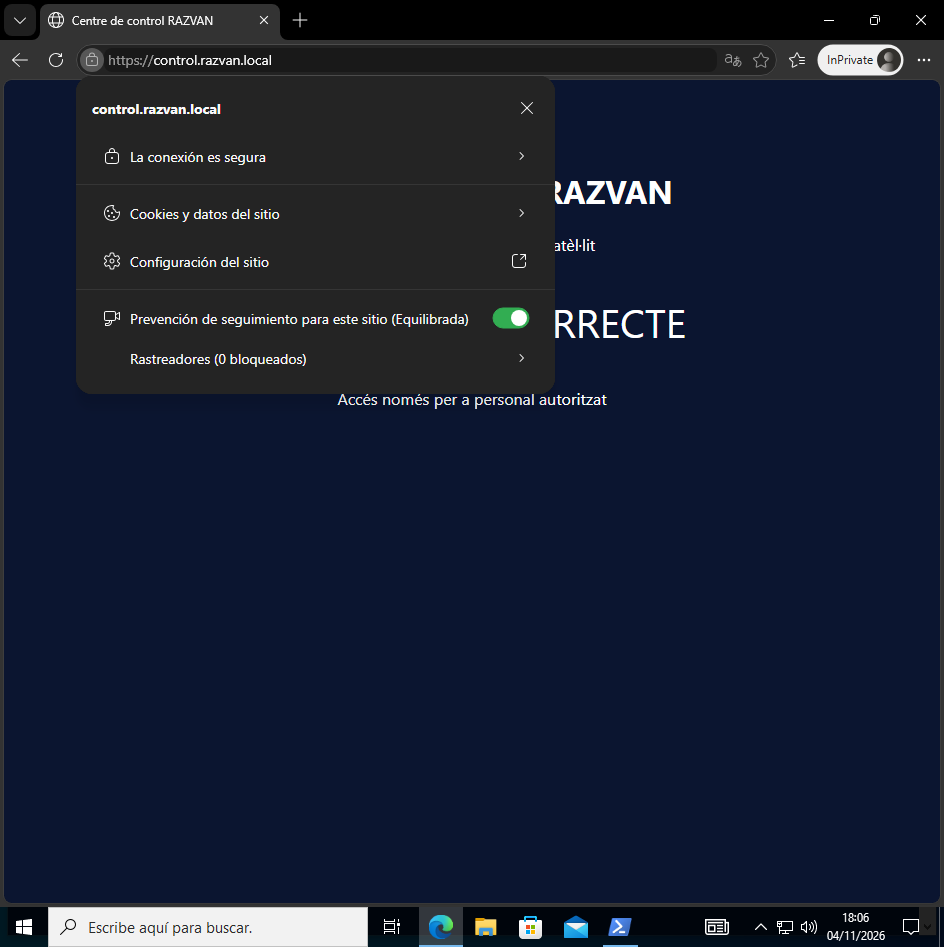
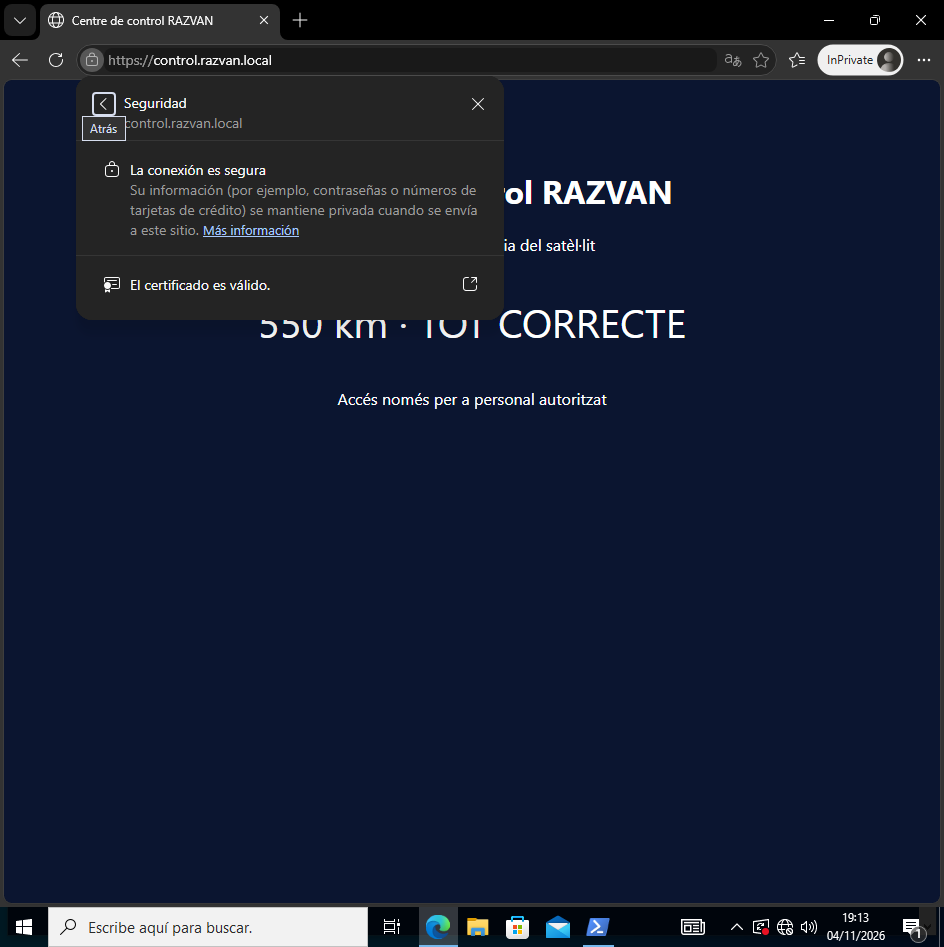
Completa l'activitat AD CS: reptes 0, 4 i 5 i visor d'Edge
Afegeix les captures de l'Administrador de DNS (zona i reenviadors),
les pestanyes de la plantilla WebServer-SAN, el SAN del certificat
emès a certsrv, el visor de certificats d'Edge amb la jerarquia i
l'error de dc01.razvan.local.

diff --git a/tasca-ad.html b/tasca-ad.html
@@ -202,7 +202,9 @@ nslookup dc01.razvan.local
 nslookup www.google.com
 </code></pre>
 <img width="800" alt="captura1" src="../contingut/centralitzaci%C3%B3%20d%27usuaris%20amb%20un%20AD/img/captura1.png" /><p>L&#39;usuari és <code>razvan\administrador</code>. El primer <code>nslookup</code> troba el controlador de domini a <code>192.168.56.18</code>, i el segon resol <code>www.google.com</code>, així que els reenviadors funcionen.</p>
-<hr>
+<p>Al servidor obrim l&#39;<strong>Administrador de DNS</strong> (<code>dnsmgmt.msc</code>) i anem a <strong>DC01 › Zonas de búsqueda directa › razvan.local</strong>. A la zona hi ha el registre <code>dc01</code> (i, més endavant, <code>control</code>) que apunta a <code>192.168.56.18</code>.</p>
+<img width="800" alt="captura1b" src="../contingut/centralitzaci%C3%B3%20d%27usuaris%20amb%20un%20AD/img/captura1b.png" /><p>A les propietats de <strong>DC01</strong>, pestanya <strong>Reenviadores</strong>, hi ha les dues adreces: <code>10.0.2.3</code> (el DNS de la xarxa NAT de VirtualBox) i <code>8.8.8.8</code>. El DNS del domini respon el que és seu i pregunta a fora tota la resta.</p>
+<img width="800" alt="captura1b2" src="../contingut/centralitzaci%C3%B3%20d%27usuaris%20amb%20un%20AD/img/captura1b2.png" /><hr>
 <h3>Pas 2: Instal·lem AD CS i creem RAZVAN-CA (Nivell 1)</h3>
 <p>Al servidor instal·lem el rol <strong>Servicios de certificados de Active Directory</strong> i el configurem com a <strong>CA empresarial arrel</strong> anomenada <code>RAZVAN-CA</code>, amb una validesa de 5 anys.</p>
 <pre><code class="language-powershell">Install-WindowsFeature ADCS-Cert-Authority -IncludeManagementTools
@@ -244,14 +246,13 @@ Get-ChildItem Cert:\LocalMachine\My | Format-Table FriendlyName, Subject, Issuer
 <img width="800" alt="captura4b" src="../contingut/centralitzaci%C3%B3%20d%27usuaris%20amb%20un%20AD/img/captura4b.png" /><p>Als certificats autosignats el subjecte i l&#39;emissor són el mateix. Qualsevol pot fabricar-ne un amb qualsevol nom, i per això no serveixen. Després l&#39;esborrem.</p>
 <hr>
 <h3>Pas 6: Creem la plantilla WebServer-SAN (Nivell 4)</h3>
-<p>Dupliquem la plantilla <strong>Servidor web</strong> com a <strong>WebServer-SAN</strong>, amb aquestes opcions:</p>
-<ul>
-<li>Validesa de <strong>2 anys</strong>.</li>
-<li>Nom del subjecte <strong>proporcionat pel sol·licitant</strong> (el posarem nosaltres a la sol·licitud).</li>
-<li><strong>Equipos del dominio</strong>: permís de llegir i inscriure&#39;s.</li>
-<li><strong>Admins. del dominio</strong>: permís de llegir, escriure i inscriure&#39;s.</li>
-</ul>
-<p>Després la publiquem a RAZVAN-CA perquè la pugui fer servir.</p>
+<p>Obrim la <strong>Consola de plantillas de certificado</strong> (<code>certtmpl.msc</code>) i dupliquem la plantilla <strong>Servidor web</strong> com a <strong>WebServer-SAN</strong>. A les propietats de la plantilla nova revisem cada pestanya.</p>
+<p>A <strong>General</strong>, el nom és <code>WebServer-SAN</code>, el <strong>Período de validez</strong> és de <strong>2 años</strong> i <em>Publicar certificado en Active Directory</em> queda desmarcat.</p>
+<img width="800" alt="captura5a_general" src="../contingut/centralitzaci%C3%B3%20d%27usuaris%20amb%20un%20AD/img/captura5a_general.png" /><p>A <strong>Compatibilidad</strong>, l&#39;entitat de certificació és <strong>Windows Server 2016</strong> i el destinatari <strong>Windows 10/Windows Server 2016</strong>.</p>
+<img width="800" alt="captura5a_compat" src="../contingut/centralitzaci%C3%B3%20d%27usuaris%20amb%20un%20AD/img/captura5a_compat.png" /><p>A <strong>Nombre del sujeto</strong> està marcat <strong>Proporcionado por el solicitante</strong>: el nom l&#39;escriurem nosaltres a la sol·licitud.</p>
+<img width="800" alt="captura5a_subjecte" src="../contingut/centralitzaci%C3%B3%20d%27usuaris%20amb%20un%20AD/img/captura5a_subjecte.png" /><p>A <strong>Seguridad</strong>, <strong>Equipos del dominio</strong> té permís de <strong>Leer</strong> i <strong>Inscribirse</strong>, i <strong>Admins. del dominio</strong> també pot inscriure&#39;s. Així qualsevol servidor del domini, i nosaltres com a <code>Administrador</code>, podem demanar certificats web amb aquesta plantilla.</p>
+<img width="800" alt="captura5a_seguretat" src="../contingut/centralitzaci%C3%B3%20d%27usuaris%20amb%20un%20AD/img/captura5a_seguretat.png" /><p>A <strong>Extensiones › Directivas de aplicación</strong> surt l&#39;ús <strong>Autenticación del servidor</strong>: el certificat serveix per identificar un servidor, no per signar scripts.</p>
+<img width="800" alt="captura5b" src="../contingut/centralitzaci%C3%B3%20d%27usuaris%20amb%20un%20AD/img/captura5b.png" /><p>Després la publiquem a RAZVAN-CA (<strong>Plantillas de certificado › Nuevo › Plantilla de certificado para emitir</strong>, o per PowerShell) perquè la pugui fer servir.</p>
 <pre><code class="language-powershell">certutil -SetCATemplates +WebServer-SAN
 </code></pre>
 <img width="800" alt="captura5" src="../contingut/centralitzaci%C3%B3%20d%27usuaris%20amb%20un%20AD/img/captura5.png" /><p>A <strong>Plantillas de certificado</strong> de <code>certsrv.msc</code> ja surt <strong>WebServer-SAN</strong>, amb el propòsit <strong>Autenticación del servidor</strong>: el certificat serveix per identificar un servidor, no per signar scripts.</p>
@@ -294,20 +295,23 @@ certreq -accept web.cer
 <pre><code class="language-powershell">Get-ChildItem Cert:\LocalMachine\My | Where-Object Subject -eq &quot;CN=control.razvan.local&quot; | Format-List FriendlyName, Subject, Issuer, DnsNameList, NotAfter
 </code></pre>
 <img width="800" alt="captura6" src="../contingut/centralitzaci%C3%B3%20d%27usuaris%20amb%20un%20AD/img/captura6.png" /><p>Tenen el mateix nom i el mateix SAN. L&#39;única diferència és l&#39;<strong>emissor</strong>: el de pega se signa ell mateix i l&#39;oficial l&#39;ha signat <strong>RAZVAN-CA</strong>.</p>
-<hr>
+<p>A <code>certsrv.msc</code>, a <strong>Certificados emitidos</strong>, surt la sol·licitud 3, demanada per <code>RAZVAN\Administrador</code> amb la plantilla <strong>WebServer-SAN</strong>.</p>
+<img width="800" alt="captura6b_emesos" src="../contingut/centralitzaci%C3%B3%20d%27usuaris%20amb%20un%20AD/img/captura6b_emesos.png" /><p>L&#39;obrim amb doble clic i, a la pestanya <strong>Detalles</strong>, el camp <strong>Nombre alternativo del titular</strong> (el SAN) conté <code>Nombre DNS=control.razvan.local</code>.</p>
+<img width="800" alt="captura6b" src="../contingut/centralitzaci%C3%B3%20d%27usuaris%20amb%20un%20AD/img/captura6b.png" /><hr>
 <h3>Pas 8: El cadenat oficial (Nivell 6)</h3>
 <p>A IIS canviem el certificat de l&#39;enllaç <code>https</code> del <strong>Default Web Site</strong> pel <strong>Cadenat oficial</strong>.</p>
 <p>Al client obrim una finestra InPrivate d&#39;Edge i tornem a <code>https://control.razvan.local</code>.</p>
-<img width="800" alt="captura7" src="../contingut/centralitzaci%C3%B3%20d%27usuaris%20amb%20un%20AD/img/captura7.png" /><p>Ara la web surt a la primera, sense cap avís, i en clicar el cadenat Edge diu <strong>La conexión es segura</strong>.</p>
-<p>Si obrim el certificat que serveix la web i mirem la <strong>Ruta de certificación</strong>, veiem la jerarquia: <strong>RAZVAN-CA</strong> a dalt i <strong>control.razvan.local</strong> a sota.</p>
-<img width="800" alt="captura7b" src="../contingut/centralitzaci%C3%B3%20d%27usuaris%20amb%20un%20AD/img/captura7b.png" /><p>Edge mostra el cadenat perquè es compleixen quatre coses alhora:</p>
+<img width="800" alt="captura7" src="../contingut/centralitzaci%C3%B3%20d%27usuaris%20amb%20un%20AD/img/captura7.png" /><p>Ara la web surt a la primera, sense cap avís. En clicar el cadenat i després <strong>La conexión es segura</strong>, Edge diu <strong>El certificado es válido</strong>.</p>
+<p>Obrim el certificat des d&#39;aquí. Al <strong>Visor de certificados</strong> d&#39;Edge veiem que està emès per a <code>control.razvan.local</code> i que l&#39;emissor és <strong>RAZVAN-CA</strong>.</p>
+<img width="800" alt="captura7_visor" src="../contingut/centralitzaci%C3%B3%20d%27usuaris%20amb%20un%20AD/img/captura7_visor.png" /><p>A la pestanya <strong>Detalles</strong>, a dalt hi ha la <strong>Jerarquía de certificados</strong>: <strong>RAZVAN-CA</strong> a dalt i <strong>control.razvan.local</strong> a sota. És la cadena de confiança de la teoria.</p>
+<img width="800" alt="captura7_jerarquia" src="../contingut/centralitzaci%C3%B3%20d%27usuaris%20amb%20un%20AD/img/captura7_jerarquia.png" /><p>Edge mostra el cadenat perquè es compleixen quatre coses alhora:</p>
 <ol>
 <li>El certificat l&#39;ha signat RAZVAN-CA.</li>
 <li>RAZVAN-CA és a la llista de confiança del client (pas 3).</li>
 <li>El nom de l&#39;adreça, <code>control.razvan.local</code>, surt al SAN.</li>
 <li>El certificat no ha caducat ni està revocat.</li>
 </ol>
-<p>Per últim, obrim <code>https://192.168.56.18</code>.</p>
-<img width="800" alt="captura7c" src="../contingut/centralitzaci%C3%B3%20d%27usuaris%20amb%20un%20AD/img/captura7c.png" /><p>Surt l&#39;error <strong><code>NET::ERR_CERT_COMMON_NAME_INVALID</code></strong>. El certificat és oficial, però la IP no surt al SAN (falla la condició 3). Per acceptar més noms, al <code>web.inf</code> es poden posar separats amb <code>&amp;</code>, per exemple <code>&quot;dns=control.razvan.local&amp;dns=dc01.razvan.local&quot;</code>.</p>
+<p>Per últim, en una finestra InPrivate obrim els altres dos noms del servidor: <code>https://192.168.56.18</code> i <code>https://dc01.razvan.local</code>.</p>
+<img width="800" alt="captura7c" src="../contingut/centralitzaci%C3%B3%20d%27usuaris%20amb%20un%20AD/img/captura7c.png" /><img width="800" alt="captura7d" src="../contingut/centralitzaci%C3%B3%20d%27usuaris%20amb%20un%20AD/img/captura7d.png" /><p>En tots dos surt l&#39;error <strong><code>NET::ERR_CERT_COMMON_NAME_INVALID</code></strong>. El certificat és oficial, però ni la IP ni <code>dc01.razvan.local</code> surten al SAN (falla la condició 3). Per acceptar més noms, al <code>web.inf</code> es poden posar separats amb <code>&amp;</code>, per exemple <code>&quot;dns=control.razvan.local&amp;dns=dc01.razvan.local&quot;</code>.</p>
 <p>Al final fem una instantània de les dues màquines amb el nom <strong>Web amb HTTPS</strong>.</p>
 

diff --git a/contingut/centralització d'usuaris amb un AD/01-activitat.md b/contingut/centralització d'usuaris amb un AD/01-activitat.md
@@ -37,6 +37,14 @@ nslookup www.google.com
 
 L'usuari és `razvan\administrador`. El primer `nslookup` troba el controlador de domini a `192.168.56.18`, i el segon resol `www.google.com`, així que els reenviadors funcionen.
 
+Al servidor obrim l'**Administrador de DNS** (`dnsmgmt.msc`) i anem a **DC01 › Zonas de búsqueda directa › razvan.local**. A la zona hi ha el registre `dc01` (i, més endavant, `control`) que apunta a `192.168.56.18`.
+
+<img width="800" alt="captura1b" src="img/captura1b.png" />
+
+A les propietats de **DC01**, pestanya **Reenviadores**, hi ha les dues adreces: `10.0.2.3` (el DNS de la xarxa NAT de VirtualBox) i `8.8.8.8`. El DNS del domini respon el que és seu i pregunta a fora tota la resta.
+
+<img width="800" alt="captura1b2" src="img/captura1b2.png" />
+
 ---
 
 ### Pas 2: Instal·lem AD CS i creem RAZVAN-CA (Nivell 1)
@@ -133,14 +141,29 @@ Als certificats autosignats el subjecte i l'emissor són el mateix. Qualsevol po
 
 ### Pas 6: Creem la plantilla WebServer-SAN (Nivell 4)
 
-Dupliquem la plantilla **Servidor web** com a **WebServer-SAN**, amb aquestes opcions:
+Obrim la **Consola de plantillas de certificado** (`certtmpl.msc`) i dupliquem la plantilla **Servidor web** com a **WebServer-SAN**. A les propietats de la plantilla nova revisem cada pestanya.
 
-- Validesa de **2 anys**.
-- Nom del subjecte **proporcionat pel sol·licitant** (el posarem nosaltres a la sol·licitud).
-- **Equipos del dominio**: permís de llegir i inscriure's.
-- **Admins. del dominio**: permís de llegir, escriure i inscriure's.
+A **General**, el nom és `WebServer-SAN`, el **Período de validez** és de **2 años** i *Publicar certificado en Active Directory* queda desmarcat.
 
-Després la publiquem a RAZVAN-CA perquè la pugui fer servir.
+<img width="800" alt="captura5a_general" src="img/captura5a_general.png" />
+
+A **Compatibilidad**, l'entitat de certificació és **Windows Server 2016** i el destinatari **Windows 10/Windows Server 2016**.
+
+<img width="800" alt="captura5a_compat" src="img/captura5a_compat.png" />
+
+A **Nombre del sujeto** està marcat **Proporcionado por el solicitante**: el nom l'escriurem nosaltres a la sol·licitud.
+
+<img width="800" alt="captura5a_subjecte" src="img/captura5a_subjecte.png" />
+
+A **Seguridad**, **Equipos del dominio** té permís de **Leer** i **Inscribirse**, i **Admins. del dominio** també pot inscriure's. Així qualsevol servidor del domini, i nosaltres com a `Administrador`, podem demanar certificats web amb aquesta plantilla.
+
+<img width="800" alt="captura5a_seguretat" src="img/captura5a_seguretat.png" />
+
+A **Extensiones › Directivas de aplicación** surt l'ús **Autenticación del servidor**: el certificat serveix per identificar un servidor, no per signar scripts.
+
+<img width="800" alt="captura5b" src="img/captura5b.png" />
+
+Després la publiquem a RAZVAN-CA (**Plantillas de certificado › Nuevo › Plantilla de certificado para emitir**, o per PowerShell) perquè la pugui fer servir.
 
 ```powershell
 certutil -SetCATemplates +WebServer-SAN
@@ -206,6 +229,14 @@ Get-ChildItem Cert:\LocalMachine\My | Where-Object Subject -eq "CN=control.razva
 
 Tenen el mateix nom i el mateix SAN. L'única diferència és l'**emissor**: el de pega se signa ell mateix i l'oficial l'ha signat **RAZVAN-CA**.
 
+A `certsrv.msc`, a **Certificados emitidos**, surt la sol·licitud 3, demanada per `RAZVAN\Administrador` amb la plantilla **WebServer-SAN**.
+
+<img width="800" alt="captura6b_emesos" src="img/captura6b_emesos.png" />
+
+L'obrim amb doble clic i, a la pestanya **Detalles**, el camp **Nombre alternativo del titular** (el SAN) conté `Nombre DNS=control.razvan.local`.
+
+<img width="800" alt="captura6b" src="img/captura6b.png" />
+
 ---
 
 ### Pas 8: El cadenat oficial (Nivell 6)
@@ -216,11 +247,15 @@ Al client obrim una finestra InPrivate d'Edge i tornem a `https://control.razvan
 
 <img width="800" alt="captura7" src="img/captura7.png" />
 
-Ara la web surt a la primera, sense cap avís, i en clicar el cadenat Edge diu **La conexión es segura**.
+Ara la web surt a la primera, sense cap avís. En clicar el cadenat i després **La conexión es segura**, Edge diu **El certificado es válido**.
 
-Si obrim el certificat que serveix la web i mirem la **Ruta de certificación**, veiem la jerarquia: **RAZVAN-CA** a dalt i **control.razvan.local** a sota.
+Obrim el certificat des d'aquí. Al **Visor de certificados** d'Edge veiem que està emès per a `control.razvan.local` i que l'emissor és **RAZVAN-CA**.
 
-<img width="800" alt="captura7b" src="img/captura7b.png" />
+<img width="800" alt="captura7_visor" src="img/captura7_visor.png" />
+
+A la pestanya **Detalles**, a dalt hi ha la **Jerarquía de certificados**: **RAZVAN-CA** a dalt i **control.razvan.local** a sota. És la cadena de confiança de la teoria.
+
+<img width="800" alt="captura7_jerarquia" src="img/captura7_jerarquia.png" />
 
 Edge mostra el cadenat perquè es compleixen quatre coses alhora:
 1. El certificat l'ha signat RAZVAN-CA.
@@ -228,10 +263,12 @@ Edge mostra el cadenat perquè es compleixen quatre coses alhora:
 3. El nom de l'adreça, `control.razvan.local`, surt al SAN.
 4. El certificat no ha caducat ni està revocat.
 
-Per últim, obrim `https://192.168.56.18`.
+Per últim, en una finestra InPrivate obrim els altres dos noms del servidor: `https://192.168.56.18` i `https://dc01.razvan.local`.
 
 <img width="800" alt="captura7c" src="img/captura7c.png" />
 
-Surt l'error **`NET::ERR_CERT_COMMON_NAME_INVALID`**. El certificat és oficial, però la IP no surt al SAN (falla la condició 3). Per acceptar més noms, al `web.inf` es poden posar separats amb `&`, per exemple `"dns=control.razvan.local&dns=dc01.razvan.local"`.
+<img width="800" alt="captura7d" src="img/captura7d.png" />
+
+En tots dos surt l'error **`NET::ERR_CERT_COMMON_NAME_INVALID`**. El certificat és oficial, però ni la IP ni `dc01.razvan.local` surten al SAN (falla la condició 3). Per acceptar més noms, al `web.inf` es poden posar separats amb `&`, per exemple `"dns=control.razvan.local&dns=dc01.razvan.local"`.
 
 Al final fem una instantània de les dues màquines amb el nom **Web amb HTTPS**.
